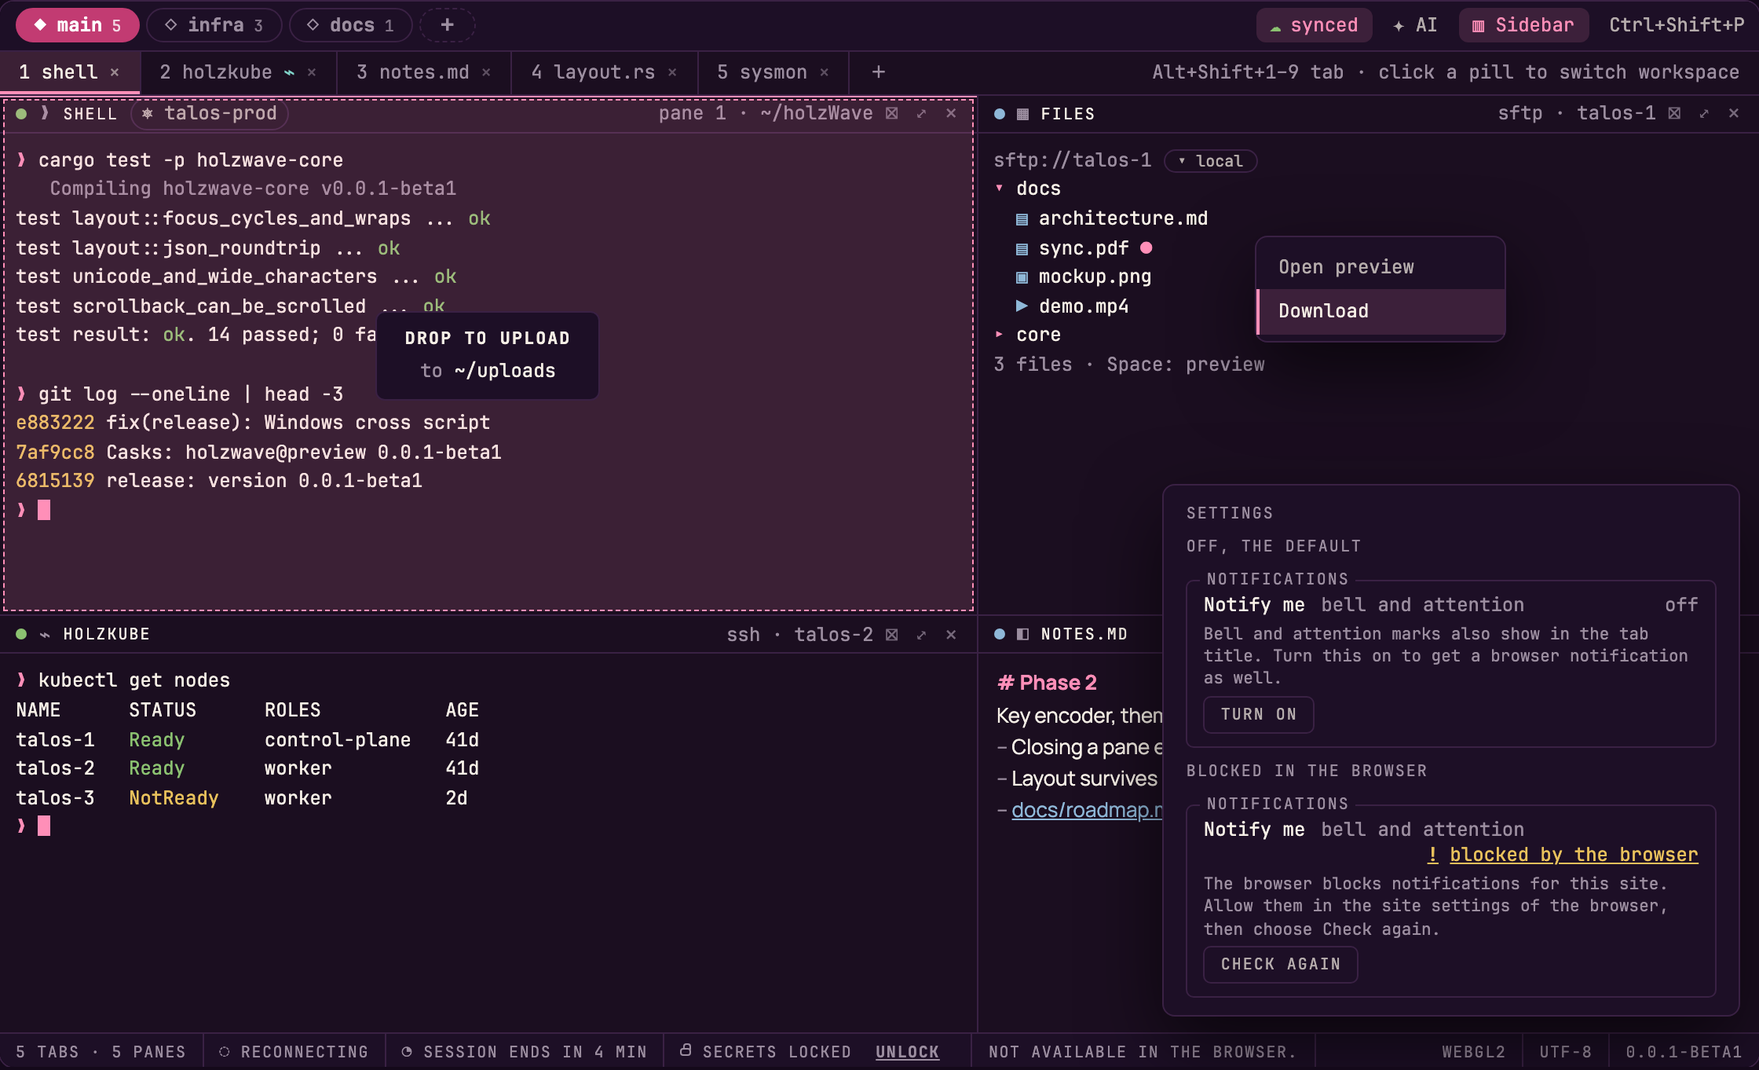
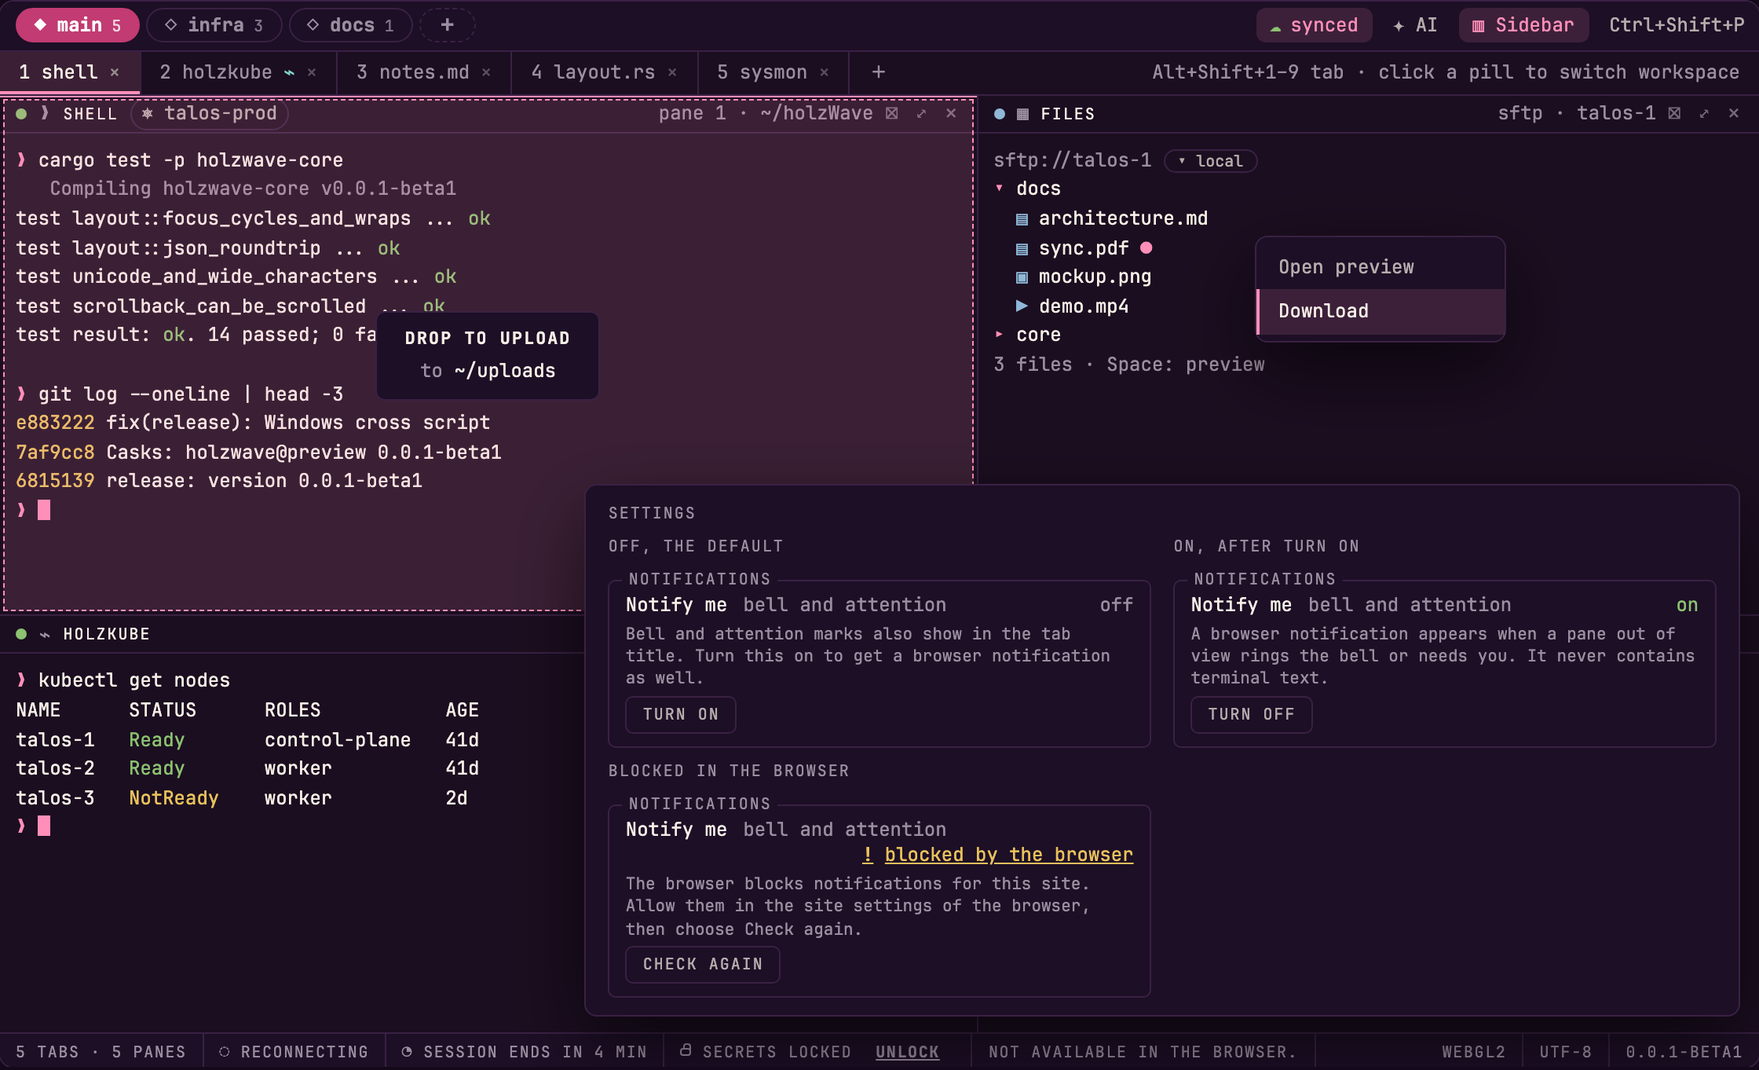
feat(11-45): opt-in browser notifications and their Settings group
- the group Notifications (off, on, blocked by the browser) exists only on the web platform and only with a notification API; its module loads on demand
- the browser is asked only inside the press of Turn on; one flag in local storage; words only, no sound, at most one per kind in five seconds, only while hidden
- web.css holds the group's styles (tokens and rem only)
- design 6.30 and the spec page draw the row in its three states; web-window and platforms/web images rendered again

Claude-Session: https://claude.ai/code/session_01LwGZpZKUZMWfdde1Cute1z

diff --git a/docs/design/haarlinie-voll.html b/docs/design/haarlinie-voll.html
@@ -464,7 +464,9 @@ p.lead{margin:6px 0 0;color:var(--ink2);max-width:70ch}
 .wb-lock{display:inline-block;position:relative;width:.7em;height:.5em;margin:0 .2em 0 0;border:1.5px solid currentColor;border-radius:2px;vertical-align:-.05em}
 .wb-lock::before{content:"";position:absolute;left:.1em;bottom:100%;width:.3em;height:.28em;border:1.5px solid currentColor;border-bottom:0;border-radius:.2em .2em 0 0}
 .wb-un{font-weight:700;text-decoration:underline;color:var(--ink)}
-.wb-notif{position:absolute;z-index:6;right:12px;bottom:34px;width:23rem;padding:.7rem .9rem;border-radius:8px;display:flex;flex-direction:column;gap:.5rem}
+.wb-notif{position:absolute;z-index:6;right:12px;bottom:34px;width:46rem;padding:.7rem .9rem;border-radius:8px;display:grid;grid-template-columns:1fr 1fr;gap:.5rem .9rem}
+.wb-notif .wb-nhead{grid-column:1/-1}
+.wb-nstate{display:flex;flex-direction:column;gap:.5rem;min-width:0}
 .wb-notif .ap{padding:0}
 /* The monitor of another computer (docs/design.md 6.5, On another computer). `kimon` is the monitor of a Linux host beside its shell; `kimonstates` is the ground only: the
    line above the bars while the pane connects, when the host does not answer (the last numbers stay, dimmed), when it is not Linux and when its key is not known yet.
@@ -1129,7 +1131,8 @@ const wbRowMenu='<div class="ov float wb-menu" role="menu" aria-label="sync.pdf"
 const wbArea=()=>`<div class="area">${P('','❯','shell','pane 1 · ~/holzWave',shell('')+wbDrop,{f:1,chip:phChip('⎈ talos-prod')})}${P('in','▦','files','sftp · talos-1',tree+wbRowMenu)}${P('','⌁','holzkube','ssh · talos-2',ssh(0))}${P('in','◧','notes.md','preview',md)}</div>`;
 const wbStatus=()=>`<div class="status row"><span>5 tabs · 5 panes</span><span class="wa">◌ reconnecting</span><span class="wa">◔ session ends in 4 min</span><span><i class="wb-lock"></i>secrets locked <span class="wb-un">Unlock</span></span><span>Not available in the browser.</span><span style="margin-left:auto">webgl2</span><span>utf-8</span><span>0.0.1-beta1</span></div>`;
 const wbNRow=(state,tone,word,line,btns)=>`<div class="ln-row" data-state="${state}" data-tone="${tone}"><span class="ln-name">Notify me</span><span class="ln-meta">bell and attention</span><span class="ln-state">${word}</span><p class="ln-adv">${line}</p><div class="ln-btns">${btns.map(b=>`<span class="ln-btn">${b}</span>`).join('')}</div></div>`;
-const wbNotif=()=>`<div class="float wb-notif" role="group" aria-label="Settings: Notifications"><div class="cap" style="margin:0">Settings</div><div class="cap" style="margin:0">Off, the default</div>${apG('Notifications',wbNRow('off','plain','off','Bell and attention marks also show in the tab title. Turn this on to get a browser notification as well.',['Turn on']))}<div class="cap" style="margin:0">Blocked in the browser</div>${apG('Notifications',wbNRow('blocked','warn','blocked by the browser','The browser blocks notifications for this site. Allow them in the site settings of the browser, then choose Check again.',['Check again']))}</div>`;
+const wbNState=(cap,group)=>`<div class="wb-nstate"><div class="cap" style="margin:0">${cap}</div>${group}</div>`;
+const wbNotif=()=>`<div class="float wb-notif" role="group" aria-label="Settings: Notifications"><div class="cap wb-nhead" style="margin:0">Settings</div>${wbNState('Off, the default',apG('Notifications',wbNRow('off','plain','off','Bell and attention marks also show in the tab title. Turn this on to get a browser notification as well.',['Turn on'])))}${wbNState('On, after Turn on',apG('Notifications',wbNRow('on','ok','on','A browser notification appears when a pane out of view rings the bell or needs you. It never contains terminal text.',['Turn off'])))}${wbNState('Blocked in the browser',apG('Notifications',wbNRow('blocked','warn','blocked by the browser','The browser blocks notifications for this site. Allow them in the site settings of the browser, then choose Check again.',['Check again'])))}</div>`;
 wbViews['web-signin']=()=>wbPage([['Password, step 1',wbSignIn({cur:1})],['Authenticator code, after a wrong code',wbCode(wbGeneric)]]);
 
 const ovl={
@@ -1368,7 +1371,7 @@ const views=[
  ['web-unlock','Web: unlock','The dialog over the window when the saved passwords are locked: the passphrase field with the sentence for a wrong one (the mark ! and an underline), Not now and Unlock, a text button for the recovery code, and the dim sentence that an admin can reset the secrets, which deletes the saved passwords and keys and keeps the account, the layout and the history. Right, the same dialog with the recovery code field.'],
  ['web-account','Web: account','The account dialog, opened from the palette entry Account\u2026: one group for each thing a person can change (password, authenticator, passkeys, unlock passphrase, recovery code) with its state as a word, and the sessions with this one marked by the word this session and a dot, Sign out and Sign out everywhere. A change asks again in the layer Confirm it is you above the dialog, which shows the account name in mono and offers the password or a passkey.'],
  ['web-people','Web: people','The people dialog, for administrators only: the table of accounts with role, state (active with a dot, disabled with a ring, locked out with ! and an underline) and last sign-in, the menu of one row (Make admin, Disable, Unlock sign-in while locked out, Reset secrets, Delete) and the layer that shows a new invitation link once with Copy link. The dialog shows no secret, terminal, command or layout of anyone.'],
- ['web-window','Web: window','The window as a browser shows it: the bar starts at the left edge, with no window buttons and no drag region. In the status line the marks reconnecting (a dotted ring), session ends in 4 min (a quarter circle) and secrets locked (a lock and the text button Unlock), and the notice Not available in the browser. A file dragged over a pane shows a dashed edge and Drop to upload with the folder; the row menu of the file browser has Download; Settings has the row Notifications, here off and blocked by the browser.'],
+ ['web-window','Web: window','The window as a browser shows it: the bar starts at the left edge, with no window buttons and no drag region. In the status line the marks reconnecting (a dotted ring), session ends in 4 min (a quarter circle) and secrets locked (a lock and the text button Unlock), and the notice Not available in the browser. A file dragged over a pane shows a dashed edge and Drop to upload with the folder; the row menu of the file browser has Download; Settings has the row Notifications, here off, on and blocked by the browser.'],
   ['drag','Drag','Reorder panes by drag and drop, drop them as a tab, drag them out into a new window. On Wayland use the palette.']
 ];
 const vb=$('#views');let cur='alltag';

diff --git a/app/src/webnotice.ts b/app/src/webnotice.ts
@@ -6,8 +6,12 @@
 import { attention } from "./attentionstate.js";
 import type { Kind } from "./attentionstate.js";
 import { listen } from "./bridge.js";
+import { el, loadStyles, setText } from "./dom.js";
 import { state } from "./state.js";
-import { ICON_PLAIN, Notices, commandKind, noticeIcon, noticeTitle } from "./webstate.js";
+import {
+  ICON_PLAIN, NOTIFY_FLAG_KEY, NOTIFY_GROUP, NotifyGate, Notices, commandKind, noticeIcon, noticeTitle, permissionState,
+} from "./webstate.js";
+import type { NotifyWord } from "./webstate.js";
 
 const notices = new Notices();
 
@@ -64,6 +68,146 @@ const isPaneEvent = (p: unknown): p is { pane: number; code?: unknown } =>
 /** A pane that exited or left this window: the bar ignores its events, and so does the tab. */
 const isGone = (pane: number): boolean => state.exited.has(pane) || state.away.has(pane);
 
+// ---- notifications ----------------------------------------------------------------------------------------------
+
+const gate = new NotifyGate();
+
+/** Whether the browser has a notification API at all. */
+export const canNotify = (): boolean => typeof window.Notification === "function";
+
+/** The person's choice, read from the one key of local storage; a browser that refuses storage reads as off. */
+function readFlag(): boolean {
+  try {
+    return localStorage.getItem(NOTIFY_FLAG_KEY) === "1";
+  } catch {
+    return false;
+  }
+}
+
+/** The person's choice as the page holds it: the key is read at start and again when another tab changes it. */
+let flag = false;
+
+function writeFlag(on: boolean): void {
+  flag = on;
+  try {
+    if (on) localStorage.setItem(NOTIFY_FLAG_KEY, "1");
+    else localStorage.removeItem(NOTIFY_FLAG_KEY);
+  } catch {
+    // the choice then lasts until the page is closed
+  }
+}
+
+/** The state of the notifications now: the browser's permission and the person's choice together. */
+const wordNow = (): NotifyWord => permissionState(canNotify() ? window.Notification.permission : "denied", flag);
+
+/** Make the notification for `kind` when the rule allows it: the words of the mark, quiet, one per kind in five seconds. */
+function notify(kind: Kind): void {
+  if (!canNotify()) return;
+  const text = gate.next(kind, performance.now(), isHidden(), wordNow());
+  if (text === null) return;
+  try {
+    const n = new window.Notification(text, { tag: kind, silent: true });
+    n.onclick = () => {
+      window.focus();
+      n.close();
+    };
+  } catch {
+    // a browser that cannot make one here (some phones) shows the title and the icon only
+  }
+}
+
+/**
+ * Build the group `Notifications` in `parent`, before `before` (the end when null), and return the function that removes it.
+ * Nothing is built where the browser has no notification API. The browser is asked for its permission only inside the press of
+ * `Turn on`, never when the group is shown; the one button changes with the state (`Turn on`, `Turn off`, `Check again`).
+ */
+export function mountNotificationsGroup(parent: Element, before: Element | null): () => void {
+  if (!canNotify()) return () => {};
+  void loadStyles("./web.css").catch(() => {});
+  const set = el("fieldset", "set-group set-notify");
+  parent.insertBefore(set, before);
+  set.setAttribute("role", "group");
+  set.setAttribute("aria-labelledby", "set-notify-legend");
+  const legend = el("legend", "", set);
+  legend.id = "set-notify-legend";
+  legend.textContent = NOTIFY_GROUP.legend;
+
+  const row = el("div", "set-notify-row", set);
+  el("span", "set-notify-name", row).textContent = NOTIFY_GROUP.name;
+  el("span", "set-notify-meta", row).textContent = NOTIFY_GROUP.meta;
+  const wordNode = el("span", "set-notify-state", row);
+  const adviceNode = el("p", "set-notify-advice", row);
+  const buttons = el("div", "set-notify-buttons", row);
+  const button = el("button", "", buttons);
+  button.type = "button";
+  const line = el("p", "set-notify-line", set);
+  line.setAttribute("role", "status");
+
+  let disposed = false;
+  /** The state the row shows, which is what the button in front of the person means; the browser may have changed since. */
+  let shownWord: NotifyWord = "off";
+  const draw = (): void => {
+    const word = wordNow();
+    shownWord = word;
+    const shown = NOTIFY_GROUP.rows[word];
+    row.dataset.state = word === "blocked by the browser" ? "blocked" : word;
+    row.dataset.tone = shown.tone;
+    setText(wordNode, word);
+    setText(adviceNode, shown.advice);
+    setText(button, shown.button);
+  };
+
+  /** `Turn on`: the request is made in this press and nowhere else. A permission the browser already gave needs none. */
+  const turnOn = (): void => {
+    const permission = window.Notification.permission;
+    if (permission === "granted") {
+      writeFlag(true);
+      draw();
+      return;
+    }
+    if (permission === "denied") {
+      draw();
+      return;
+    }
+    let asked: Promise<unknown>;
+    try {
+      asked = Promise.resolve(window.Notification.requestPermission());
+    } catch {
+      setText(line, NOTIFY_GROUP.failed);
+      return;
+    }
+    void asked.then(
+      (result) => {
+        if (result === "granted") writeFlag(true);
+        if (!disposed) draw();
+      },
+      () => {
+        if (!disposed) {
+          setText(line, NOTIFY_GROUP.failed);
+          draw();
+        }
+      },
+    );
+  };
+
+  button.addEventListener("click", () => {
+    setText(line, "");
+    if (shownWord === "off") turnOn();
+    else if (shownWord === "on") {
+      writeFlag(false);
+      draw();
+    } else {
+      draw();
+      setText(line, NOTIFY_GROUP.checked);
+    }
+  });
+  draw();
+  return () => {
+    disposed = true;
+    set.remove();
+  };
+}
+
 let started = false;
 
 /** Start the tab marks. Called once, by `web.ts`. */
@@ -77,6 +221,11 @@ export async function initNotice(): Promise<void> {
   link.setAttribute("href", ICON_PLAIN);
   document.head.append(link);
 
+  flag = readFlag();
+  window.addEventListener("storage", (e) => {
+    if (e.key === NOTIFY_FLAG_KEY || e.key === null) flag = readFlag();
+  });
+  onNotice(notify);
   asking = new Set(attention.waiting());
   attention.subscribe(followQuestions);
   document.addEventListener("visibilitychange", () => {

diff --git a/app/src/webstate.ts b/app/src/webstate.ts
@@ -101,3 +101,76 @@ export function noticeIcon(kinds: readonly string[]): string {
 export function commandKind(code: unknown): "done" | "failed" {
   return typeof code === "number" && Number.isSafeInteger(code) && code > 0 ? "failed" : "done";
 }
+
+// ---- notifications ----------------------------------------------------------------------------------------------
+
+/** The one value the page keeps in local storage for the notifications: `"1"` while the person has them on. */
+export const NOTIFY_FLAG_KEY = "holzwave.notify";
+
+/** The shortest time between two notifications of one kind, in milliseconds. */
+export const NOTIFY_GAP_MS = 5000;
+
+/** The text of a notification: the words of the mark and nothing else. Never a pane's name, a command or output. */
+export const NOTIFY_TEXT: Readonly<Record<Kind, string>> = {
+  ask: "Waits for you",
+  bell: "Rang the bell",
+  failed: "Command failed",
+  done: "Command finished",
+};
+
+/** The state of the notifications as the Settings group says it. */
+export type NotifyWord = "off" | "on" | "blocked by the browser";
+
+/**
+ * The state from the browser's permission (`default`, `granted` or `denied`) and the person's flag: blocked whenever the browser
+ * says `denied`; on only when the browser allows it and the person turned it on; off in every other case.
+ */
+export function permissionState(permission: unknown, flag: boolean): NotifyWord {
+  if (permission === "denied") return "blocked by the browser";
+  return permission === "granted" && flag ? "on" : "off";
+}
+
+/** The rule that decides whether a notification is made: hidden, on, and at most one of a kind in `NOTIFY_GAP_MS`. */
+export class NotifyGate {
+  private last = new Map<Kind, number>();
+
+  /**
+   * The text to show for `kind` at time `now` (milliseconds on a monotonic clock), or null for none. Only a shown notification
+   * starts the window of its kind, so a refusal does not extend it; a clock that went back does not hold a kind back.
+   */
+  next(kind: string, now: number, hidden: boolean, word: string): string | null {
+    if (!hidden || word !== "on" || !isKind(kind)) return null;
+    const before = this.last.get(kind);
+    if (before !== undefined && now >= before && now - before < NOTIFY_GAP_MS) return null;
+    this.last.set(kind, now);
+    return NOTIFY_TEXT[kind];
+  }
+}
+
+/** The group `Notifications` of the Settings dialog (design 6.30): its legend, the row's name and meta, and the row of each state. */
+export const NOTIFY_GROUP = {
+  legend: "Notifications",
+  name: "Notify me",
+  meta: "bell and attention",
+  /** The line after `Check again`. */
+  checked: "Checked.",
+  /** The line when the browser did not answer the request. */
+  failed: "The browser did not answer. Try again.",
+  rows: {
+    off: {
+      tone: "plain",
+      advice: "Bell and attention marks also show in the tab title. Turn this on to get a browser notification as well.",
+      button: "Turn on",
+    },
+    on: {
+      tone: "ok",
+      advice: "A browser notification appears when a pane out of view rings the bell or needs you. It never contains terminal text.",
+      button: "Turn off",
+    },
+    "blocked by the browser": {
+      tone: "warn",
+      advice: "The browser blocks notifications for this site. Allow them in the site settings of the browser, then choose Check again.",
+      button: "Check again",
+    },
+  },
+} as const;

diff --git a/app/src/web.css b/app/src/web.css
@@ -1,0 +1,28 @@
+/* The styles of the browser build's own page code (web.ts and its neighbours), loaded with `loadStyles("./web.css")` by the modules that
+   need them, never from index.html, so the desktop page does not read them. Every colour is a `--hw-*` token (the theme replaces the
+   values) and every size is in rem, so the UI scale moves it with the rest of the chrome; a pixel value appears only for the 28 px
+   desktop minimum of a target and the 2 px focus ring. Flat and hairline, no shadow, nothing moves. */
+
+/* ---- the group `Notifications` of the Settings dialog (webnotice.ts, docs/design.md section 6.30) -----------------------------------
+   One row in the manner of the Local network group (6.24): the name, the dim meta and the state, then one sentence and one button.
+   The state is words first; the state that needs attention is also underlined and marked "!". Rose is not used here. */
+.settings .set-notify-row { display: flex; flex-wrap: wrap; align-items: center; gap: 0 .667rem; box-sizing: border-box;
+                            min-height: max(28px, calc(28rem / 12)); }
+.settings .set-notify-name { flex: none; color: var(--hw-ink); }
+.settings .set-notify-meta { min-width: 0; color: var(--hw-dim); }
+.settings .set-notify-state { min-width: 0; margin-left: auto; color: var(--hw-dim); text-align: right; overflow-wrap: anywhere; }
+.settings .set-notify-row[data-tone="ok"] .set-notify-state { color: var(--hw-ok); }
+.settings .set-notify-row[data-tone="warn"] .set-notify-state { color: var(--hw-warn); text-decoration: underline; }
+.settings .set-notify-row[data-tone="warn"] .set-notify-state::before { content: "! "; font-weight: 700; }
+.settings .set-notify-advice { flex: 1 0 100%; margin: .167rem 0 .333rem; color: var(--hw-dim); overflow-wrap: anywhere; }
+.settings .set-notify-advice:empty { display: none; }
+.settings .set-notify-buttons { display: flex; flex: 1 0 100%; flex-wrap: wrap; gap: .333rem .5rem; }
+.settings .set-notify-buttons button { display: inline-flex; flex: none; align-items: center; justify-content: center;
+                                       min-height: max(28px, calc(28rem / 12)); font-size: calc(11rem / 12); }
+.settings .set-notify-line { min-height: 1.4em; margin: .333rem 0 0; color: var(--hw-dim); overflow-wrap: anywhere; }
+
+/* ---- forced colours: system colours outline the row; the group keeps its border -------------------------------------------------- */
+
+@media (forced-colors: active) {
+  :root .settings .set-notify-row { outline: 2px solid CanvasText; outline-offset: -2px; }
+}

diff --git a/app/src/settings-ui.ts b/app/src/settings-ui.ts
@@ -269,6 +269,15 @@ async function show(api: SettingsApi): Promise<void> {
     close.textContent = "Close";
     // The group sits after Accessibility and before the buttons; it reads the permission itself and leaves when the system has none.
     const removeNetwork = state.os === "macos" ? mountLocalNetworkGroup(box, actions) : null;
+    // The browser build has a group for notifications in the same place. Its module is loaded on demand, so the desktop never loads it.
+    let removeNotify: (() => void) | null = null;
+    if (state.os === "web") {
+      void import("./webnotice.js")
+        .then((m) => {
+          if (!done) removeNotify = m.mountNotificationsGroup(box, actions);
+        })
+        .catch(() => {});
+    }
 
     // ---- showing the state -----------------------------------------------------------------------
 
@@ -308,6 +317,7 @@ async function show(api: SettingsApi): Promise<void> {
       if (done) return;
       done = true;
       removeNetwork?.();
+      removeNotify?.();
       stop();
       pop();
       backdrop.remove();

diff --git a/docs/design.md b/docs/design.md
@@ -2477,6 +2477,12 @@ They are off until the person turns them on, and the browser is asked only when 
 | `on` | on | ok; the word | A browser notification appears when a pane out of view rings the bell or needs you. It never contains terminal text. | `Turn off` |
 | `blocked` | blocked by the browser | warn; the word, an underline and `!` | The browser blocks notifications for this site. Allow them in the site settings of the browser, then choose Check again. | `Check again` |
 
+A notification says only the words of the mark (`Waits for you`, `Rang the bell`, `Command failed`, `Command finished`), never a pane name, a command or
+output, and it has no sound. It is made only while the page is hidden and the state is `on`, and at most one for each kind in five seconds. Pressing
+it brings the tab forward. The choice is one flag in the local storage of the browser on this device and nothing else is stored. The button is one
+button that changes with the state; `Check again` reads the permission of the browser again and never asks. The group is absent where the browser
+has no notification API, and on the desktop. The row is drawn in the three states on the web window view (off, on, blocked by the browser).
+
 **Tab marks.** While the page is hidden (the tab is in the background or the window is minimised) the title of the browser tab starts with the
 glyphs of the kinds of 6.23 that happened or wait, in the fixed order `?`, `▲`, `!`, `✓`, each followed by a space, then `holzWave` (`? ▲ holzWave`);
 with none, the title is `holzWave`. The icon of the tab changes to the holzWave mark with a small dot in `--hw-rose` at its top right corner: rose
